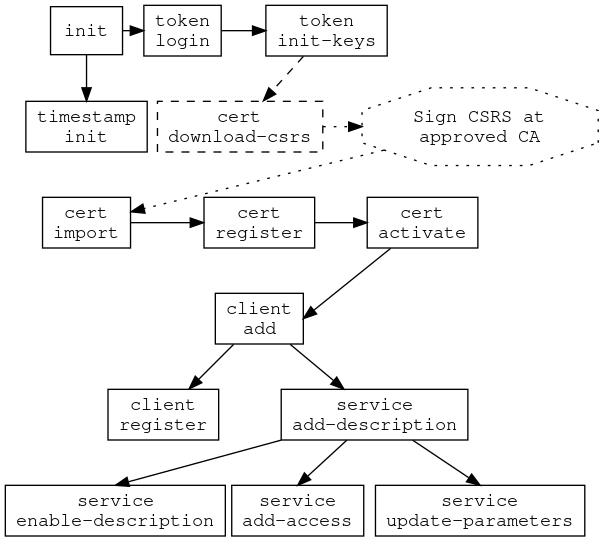
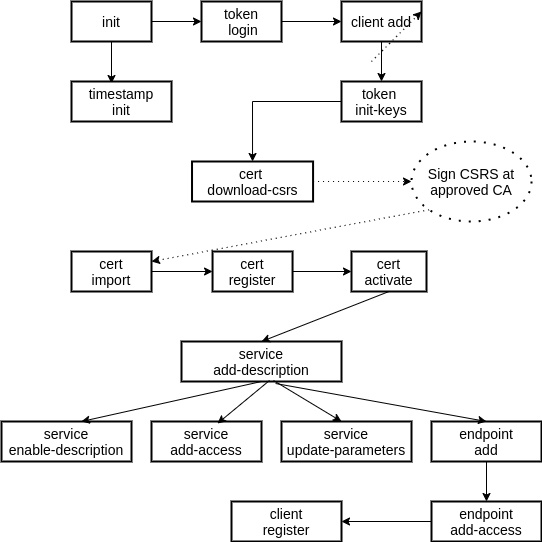
SSTOOLKIT-78

Changed region(s): [[0.0, 0.0, 1.0, 1.0], [0.5904, 0.5619, 0.6494, 0.5915]]

diff --git a/xrdsst/main.py b/xrdsst/main.py
@@ -172,20 +172,16 @@ def opdep_init(app):
     g.add_edge(OPS.TOKEN_LOGIN, OPS.ADD_CLIENT)
     g.add_edge(OPS.ADD_CLIENT, OPS.GENKEYS_CSRS)
 
-
-
     g.add_edge(OPS.GENKEYS_CSRS, OPS.IMPORT_CERTS)
     g.add_edge(OPS.IMPORT_CERTS, OPS.REGISTER_AUTH_CERT)
     g.add_edge(OPS.REGISTER_AUTH_CERT, OPS.ACTIVATE_AUTH_CERT)
-
-    g.add_edge(OPS.ACTIVATE_AUTH_CERT, OPS.REGISTER_CLIENT)
     g.add_edge(OPS.ACTIVATE_AUTH_CERT, OPS.ADD_SERVICE_DESC)
-
     g.add_edge(OPS.ADD_SERVICE_DESC, OPS.ENABLE_SERVICE_DESC)
     g.add_edge(OPS.ADD_SERVICE_DESC, OPS.ADD_SERVICE_ACCESS)
     g.add_edge(OPS.ADD_SERVICE_DESC, OPS.UPDATE_SERVICE)
     g.add_edge(OPS.ADD_SERVICE_DESC, OPS.ADD_ENDPOINTS)
     g.add_edge(OPS.ADD_ENDPOINTS, OPS.ADD_ENDPOINT_ACCESS)
+    g.add_edge(OPS.ADD_ENDPOINT_ACCESS, OPS.REGISTER_CLIENT)
 
     topologically_sorted = list(networkx.topological_sort(g))
     app.OP_GRAPH = g

diff --git a/tests/end_to_end/tests.py b/tests/end_to_end/tests.py
@@ -323,8 +323,6 @@ class EndToEndTest(unittest.TestCase):
         # Wait for global configuration status updates
         waitfor(lambda: auth_cert_registration_global_configuration_update_received(self.config), 1, 300)
 
-
-
         client = get_client(self.config)
         client_id = client['id']
 
@@ -335,7 +333,6 @@ class EndToEndTest(unittest.TestCase):
         self.step_create_admin_user()
         self.step_add_service_endpoints(client_id)
         self.step_add_endpoints_access(client_id)
-
         self.step_subsystem_register()
 
         self.step_autoconf()  # Idempotent

diff --git a/xrdsst/controllers/client.py b/xrdsst/controllers/client.py
@@ -1,5 +1,3 @@
-import time
-
 from cement import ex
 from xrdsst.api import ClientsApi
 from xrdsst.api_client.api_client import ApiClient

diff --git a/docs/xroad_security_server_toolkit_user_guide.md b/docs/xroad_security_server_toolkit_user_guide.md
@@ -679,15 +679,22 @@ configuration file like this:
       	[...]	    
 ```
 
-We can add new members/subsystems with the command:
+Running the `apply` command will create the new member, create the certificate and register it,
+but if we want to do step by step we need to: 
+- Add the new members/subsystems with the command:
 ```
 xrdsst client add-client
 ```
-The command will also create a SIGN CSRS certificate for this new member/subsystem. We can download this CSRS with the command:
+- Create the SIGN key and CSRS for the new member
+```
+xrdsst token init-keys
+```
+
+- Download this CSRS with the command:
 ```
 xrdsst cert download-csrs 
 ```
-After downloading the file, we must sign it and add it to the list of certificates in the configuration:
+Sign it and add it to the list of certificates in the configuration:
 ```
 [...]
 security_server:
@@ -701,13 +708,11 @@ security_server:
     - /path/to/signcert_new_member
 [...]
 ```
-Then run the command:
+- Import the certificate:
 ```
 xrdsst cert import
 ```
-After the SIGN cert is imported, we can register the new member by running the command:
+- Register the new member by running the command:
 ```
 xrdsst client register
 ```
-
-Note(1): For registering the new member, the member must be fully configured in another security server with the management services enabled.
